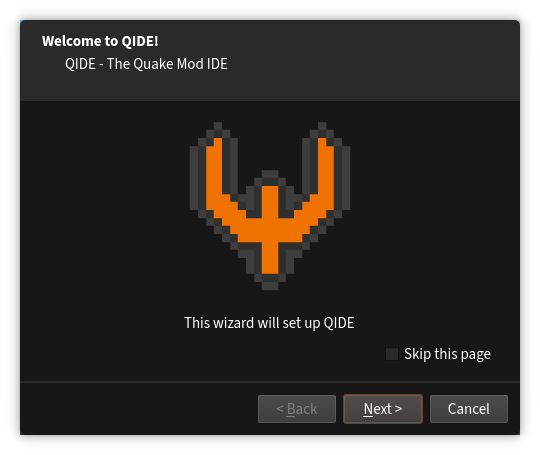
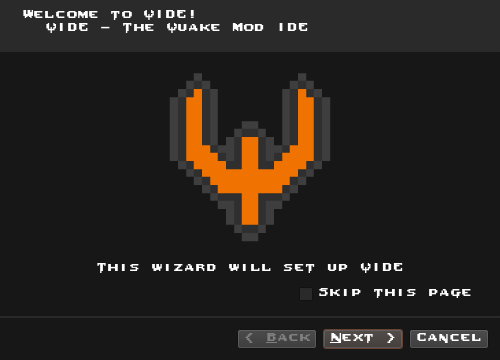
updated screenshots

diff --git a/qide/QideFileWizard.cpp b/qide/QideFileWizard.cpp
@@ -4,6 +4,7 @@
 #include <QCheckBox>
 #include <QComboBox>
 
+#include "QideWindow.hpp"
 #include "QideFileWizard.hpp"
 
 QideFileWizardInfo::QideFileWizardInfo(QWidget *parent_)
@@ -34,6 +35,9 @@ QideFileWizardInfo::QideFileWizardInfo(QWidget *parent_)
 QideFileWizard::QideFileWizard(QWidget *parent_)
 	: QWizard(parent_)
 {
+	setWizardStyle(QWizard::ModernStyle);
+	setWidgetDarkMode(this);
+
 	auto infoPage = new QideFileWizardInfo(this);
 
 	addPage(infoPage);
